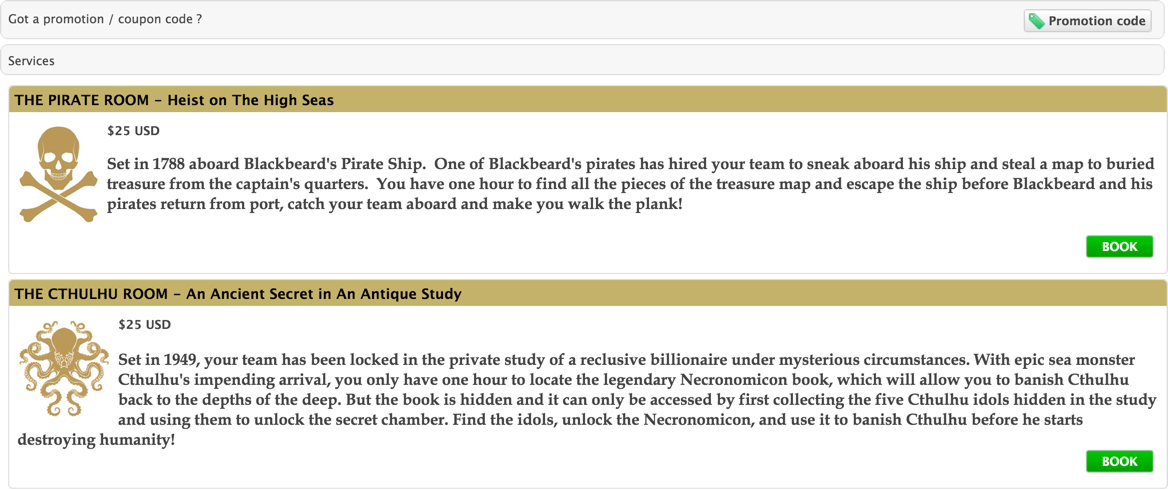
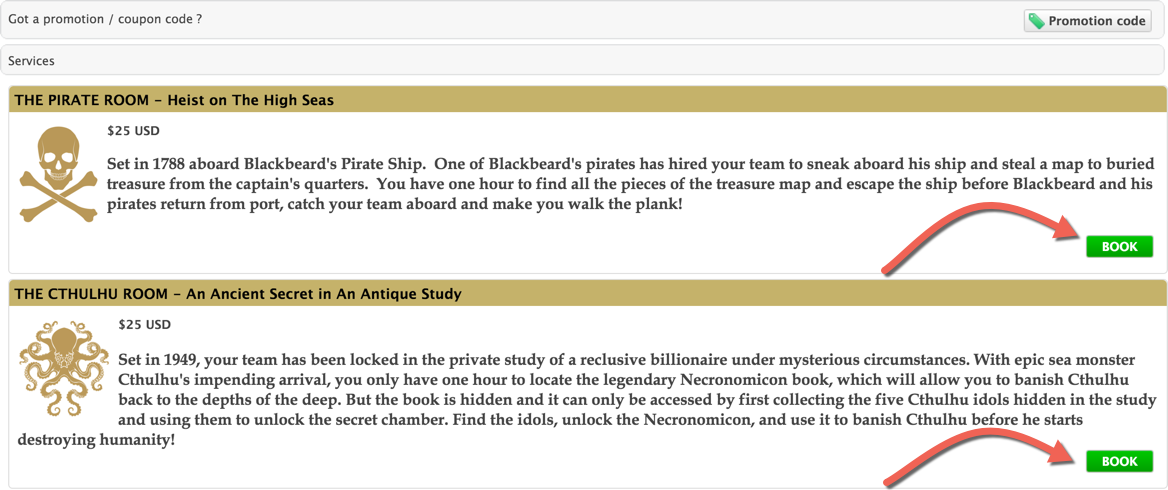
update

Changed region(s): [[0.7397, 0.398, 0.9247, 0.5816], [0.7397, 0.8571, 0.9247, 1.0]]

diff --git a/index.html b/index.html
@@ -384,6 +384,23 @@
                 <div class="row">
                     <div class="col-md-12 col-lg-12 section-heading scbordergold">
                         <h2>Book Now</h2>
+                        <h4>How to Book</h4>
+                        <div class="col-md-3 ">
+                            <img class="img-responsive" style="height:125px;" src="img/booking/room.png">
+                            <p>Select the room you wish to escape. * Cthulhu or Pirate Room</p>
+                        </div>
+                        <div class="col-md-3 ">
+                            <img class="img-responsive" style="height:125px;" src="img/booking/time.png">
+                            <p>Then select the time you want to book. * Note that if their are no times that means were booked out for that date</p>
+                        </div>
+                        <div class="col-md-3 ">
+                            <img class="img-responsive" style="height:125px;" src="img/booking/info.png">
+                            <p>On to booking info, Please fill out all info needed before moving on to the next step!</p>
+                        </div>
+                        <div class="col-md-3 ">
+                            <img class="img-responsive" style="height:125px;" src="img/booking/checkout.png">
+                            <p>Last step is to checkout and pay for the room</p>
+                        </div>
                     </div>
                     <script type="text/javascript" src="https://bookeo.com/widget.js?a=41551FJ7CEC14E754F5832&waitMobile=true"></script>
                 </div>
